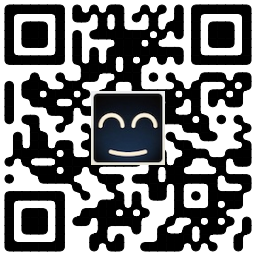
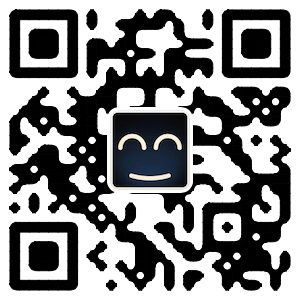
“20130830”

diff --git a/source/_layouts/default.html b/source/_layouts/default.html
@@ -31,12 +31,12 @@
 	},rules:[
 		{
 			"name": "AnyOther",
-			"message": "请记住我博客的网址(⊙o⊙)哦:http://qxxqxx.github.io………欢迎手机扫一扫：",
+			"message": "请记住我博客的网址(⊙o⊙)哦:http://qxxqxx.com………欢迎手机扫一扫：",
 			"action": {
 				"type": "button",
 				"text": "查看二维码",
 				"verb": "link",
-				"url": "http://qxxqxx.github.io/qrcode"
+				"url": "http://qxxqxx.com/qrcode"
 			}
 		},
 		{
@@ -44,12 +44,12 @@
 			"match": {
 				"referringService": "twitter"
 			},
-			"message": "请记住我博客的网址(⊙o⊙)哦:http://qxxqxx.github.io………欢迎手机扫一扫：",
+			"message": "请记住我博客的网址(⊙o⊙)哦:http://qxxqxx.com………欢迎手机扫一扫：",
 			"action": {
 				"type": "button",
 				"text": "查看二维码",
 				"verb": "link",
-				"url": "http://qxxqxx.github.io/qrcode"
+				"url": "http://qxxqxx.com/qrcode"
 			}
 		},
 		{
@@ -57,12 +57,12 @@
 			"match": {
 				"referringService": "facebook"
 			},
-			"message": "请记住我博客的网址(⊙o⊙)哦:http://qxxqxx.github.io………欢迎手机扫一扫：",
+			"message": "请记住我博客的网址(⊙o⊙)哦:http://qxxqxx.com………欢迎手机扫一扫：",
 			"action": {
 				"type": "button",
 				"text": "查看二维码",
 				"verb": "link",
-				"url": "http://qxxqxx.github.io/qrcode"
+				"url": "http://qxxqxx.com/qrcode"
 			}
 		},
 		{
@@ -70,12 +70,12 @@
 			"match": {
 				"referrer": "google.com"
 			},
-			"message": "请记住我博客的网址(⊙o⊙)哦:http://qxxqxx.github.io………欢迎手机扫一扫：",
+			"message": "请记住我博客的网址(⊙o⊙)哦:http://qxxqxx.com………欢迎手机扫一扫：",
 			"action": {
 				"type": "button",
 				"text": "查看二维码",
 				"verb": "link",
-				"url": "http://qxxqxx.github.io/qrcode"
+				"url": "http://qxxqxx.com/qrcode"
 			}
 		}
 	]});

diff --git a/source/_includes/head.html b/source/_includes/head.html
@@ -7,6 +7,7 @@
 <head>
 	
 	<link rel="apple-touch-icon-precomposed" href="/images/apple-touch-icon-precomposed.png" >
+	<meta name="baidu-site-verification" content="9jXzymYp9T" />
 	
 	<meta charset="utf-8">
 	<title>{% if page.title %}{{ page.title }} - {% endif %}{{ site.title }}</title>
